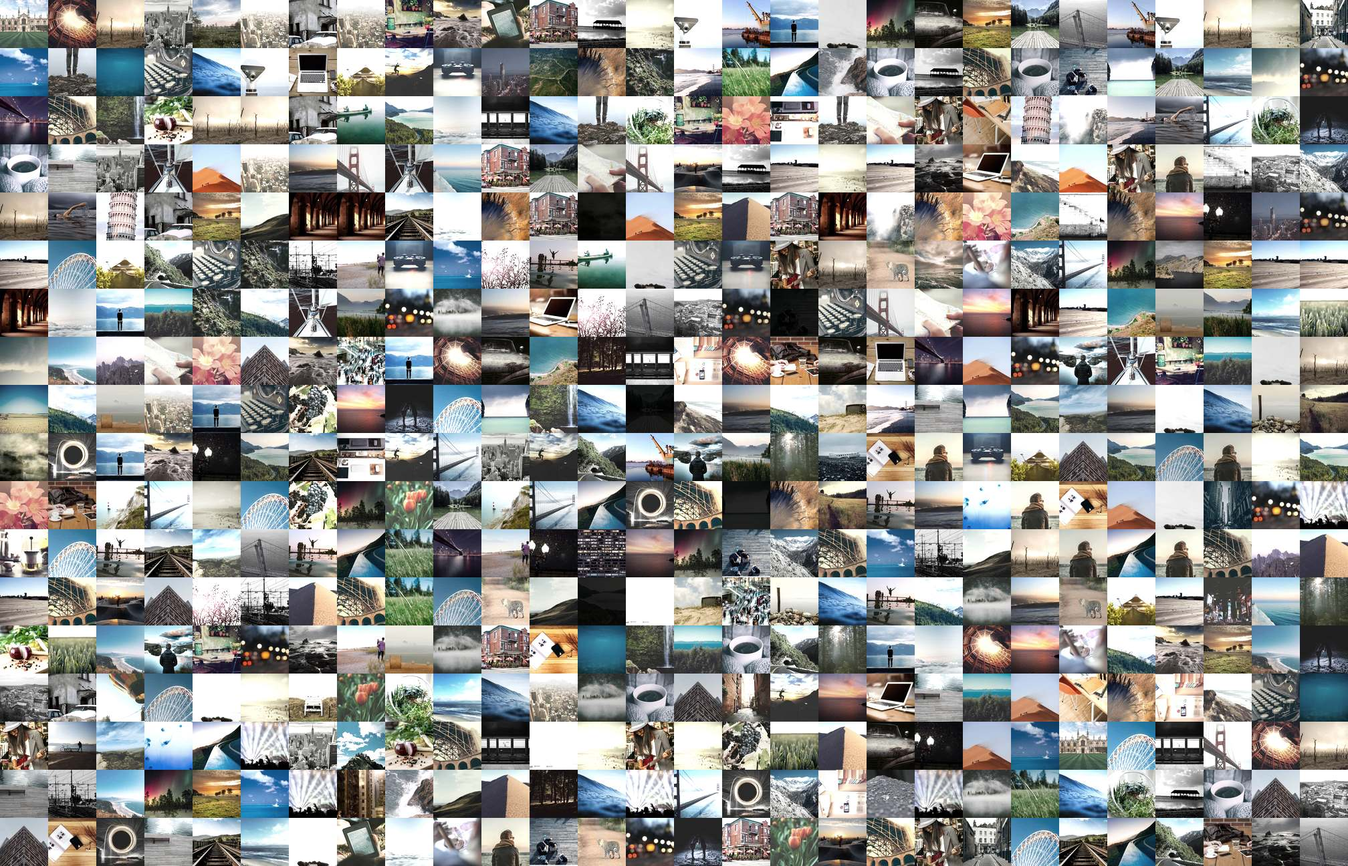
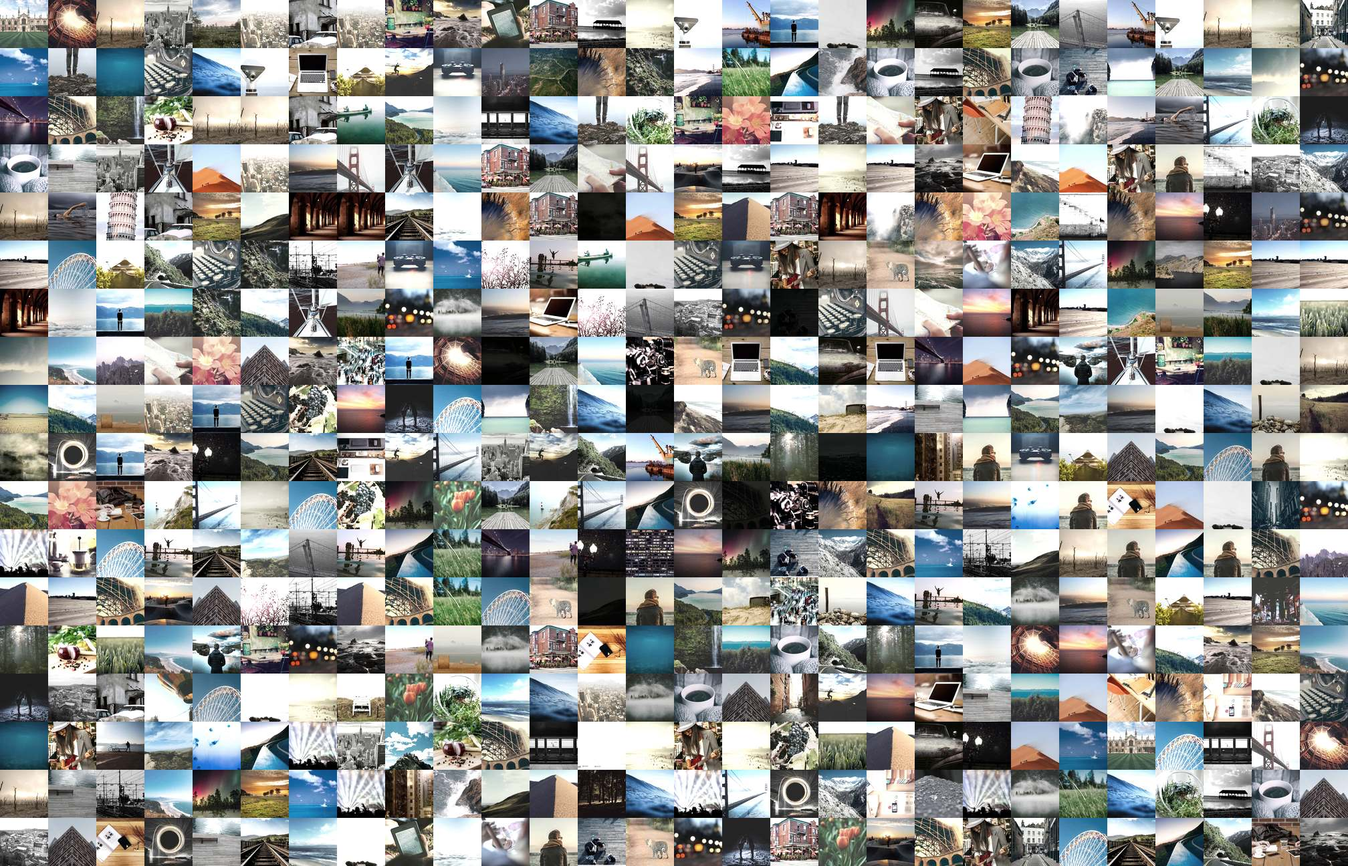
feat: all seven beats carry photographs — compositor fix, beats 6-7 heroes, 7-cell mosaic
Beat-5 "no image" root cause was compositing, not content (image luma is
fine): every photo wrapper carried a permanent translate3d transform, so
even parked wrappers at opacity 0 held viewport-sized GPU textures — on
the low-RAM acceptance phone that exhausted texture memory, blanking later
beats and leaking stale textures (beats 1/2 identical). Fix: wrappers are
visibility:hidden while parked; at most 2 large layers are ever live.

- Beat 6 (T): 1973 EPA DOCUMERICA photo, Matthew Vieira holding prints of
  his children (NARA 412-DA-5964, public domain, chain in CREDITS.md).
- Beat 7 (I): NASA Blue Marble AS17-148-22727 (public domain), distinct
  composition from beat 2's Earthrise; flight lands with the closing.
- Mosaic rebuilt with 7 darkened landing cells; HERO_CELLS kept identical
  in build_mosaic.py and index.html.
- verify_scroll.mjs: 7 photos/landings/coverage, plus a dynamic-viewport
  config (innerHeight 844 vs 780svh stages) proving the model survives
  mobile URL-bar collapse; green both directions on all configs.
- ?debug=1 HUD for on-device ground truth (wrapper↔image pairing, phases,
  innerHeight); zero cost when absent.
- Page weight ~1.12MB (ceiling 1.2MB). Reduced-motion/no-JS static story
  now shows all seven photographs.

Claude-Session: https://claude.ai/code/session_01PZ8j7TkNbTrrXCkFBL9Npz

diff --git a/index.html b/index.html
@@ -164,6 +164,8 @@
   }
   #beat-2 img.photo,
   .photo-wrap img[src*="earthrise"] { object-position: 62% 60%; } /* keep Earth + horizon framed on phones */
+  #beat-6 img.photo,
+  .photo-wrap img[src*="beat6-proof"] { object-position: 58% 50%; } /* keep both held prints inside portrait crops */
 
   /* ---------- fixed background layers (JS-created, scroll-driven) ----------
      Stacking, bottom → top: canvas (body bg) → #mosaic-layer (z:-2) →
@@ -229,16 +231,17 @@
   }
   .anim .copy { opacity: 0; will-change: transform, opacity; }
 
-  .beat--dark .stage { background: var(--bg); }
-  .beat--dark .copy {
-    margin-bottom: 0;
-    align-self: center;
-    font-size: clamp(1.7rem, 6vw, 3rem);
+  /* ---- ?debug=1 on-device readout (created by JS only when enabled) ---- */
+  #debug-hud {
+    position: fixed; left: 8px; bottom: 8px; z-index: 99;
+    font: 10px/1.5 ui-monospace, Menlo, monospace;
+    color: #7CFC9A;
+    background: rgba(0,0,0,.72);
+    padding: 6px 8px;
+    border-radius: 4px;
+    pointer-events: none;
+    white-space: pre;
   }
-  /* Under .anim the dark beats stay translucent so the accumulating mosaic
-     holds faintly behind the typography, waiting for the finale. */
-  .anim .beat--dark .stage { background: transparent; }
-  .stage .scrim--flat { background: rgba(5,5,5,.55); }
 
   /* ---------- closing ---------- */
   .closing {
@@ -387,17 +390,21 @@
     </div>
   </section>
 
-  <section class="beat beat--dark short" id="beat-6">
+  <section class="beat short" id="beat-6">
     <div class="stage">
-      <div class="scrim scrim--flat"></div>
+      <img class="photo" src="assets/beat6-proof.jpg" decoding="async"
+           alt="East Boston, 1973: Matthew Vieira holds up two small faded prints of his children, photographed decades earlier in the park where he stands — the park itself is now gone.">
+      <div class="scrim"></div>
       <span class="beat-letter" aria-hidden="true">T</span>
       <h2 class="copy">Real moments deserve proof.</h2>
     </div>
   </section>
 
-  <section class="beat beat--dark short" id="beat-7">
+  <section class="beat short" id="beat-7">
     <div class="stage">
-      <div class="scrim scrim--flat"></div>
+      <img class="photo" src="assets/beat7-bluemarble.jpg" decoding="async"
+           alt="The Blue Marble: the whole Earth — ocean, Africa, Antarctica under swirling cloud — photographed by the crew of Apollo 17 on 7 December 1972.">
+      <div class="scrim"></div>
       <span class="beat-letter" aria-hidden="true">I</span>
     </div>
   </section>
@@ -440,8 +447,8 @@
   /* ---- mosaic grid geometry — MUST match scripts/build_mosaic.py ---- */
   var MOSAIC_W = 2016, MOSAIC_H = 1296, MOSAIC_TILE = 72;
   /* (col,row) landing cell for each hero photo. build_mosaic.py bakes these
-     five cells dark so each photograph flies in and fills its empty slot. */
-  var HERO_CELLS = [[12, 4], [16, 6], [13, 8], [15, 10], [12, 12]];
+     seven cells dark so each photograph flies in and fills its empty slot. */
+  var HERO_CELLS = [[12, 4], [16, 6], [13, 8], [15, 10], [12, 12], [10, 7], [17, 9]];
 
   var LETTERS = ["R", "I", "A", "L", "I", "T", "I"];
   var beats = LETTERS.map(function (_, i) {
@@ -468,7 +475,7 @@
   var photoLayer = document.createElement("div");
   photoLayer.id = "photo-layer";
   var wraps = [], imgs = [];
-  for (var bi = 0; bi < 5; bi++) {
+  for (var bi = 0; bi < 7; bi++) {
     var photo = beats[bi].querySelector("img.photo");
     var wrap = document.createElement("div");
     wrap.className = "photo-wrap";
@@ -489,6 +496,15 @@
     document.body.appendChild(el);
     return el;
   });
+
+  /* ---- ?debug=1 — on-device ground-truth HUD (zero cost when absent) ---- */
+  var dbg = null;
+  if (/[?&]debug=1\b/.test(location.search)) {
+    dbg = document.createElement("pre");
+    dbg.id = "debug-hud";
+    dbg.setAttribute("aria-hidden", "true");
+    document.body.appendChild(dbg);
+  }
 
   /* ---- style writer that skips unchanged values ---- */
   function st(el, prop, val) {
@@ -557,18 +573,21 @@
     var cp = clamp01((m.vh - ctop) / m.vh); // closing entry progress
 
     /* mosaic layer: absent above the story, very faint during beats,
-       breathes up during each transition, holds under the dark beats,
-       full for the finale. max() of pure ramps keeps it scrub-exact. */
+       breathes up during each hand-off, full for the finale. Every beat
+       now carries a photograph, so there is no imageless "hold" — the
+       waiting opacity is the 0.06 baseline plus the transition breaths;
+       beat 7's flight coincides exactly with the closing's entry, so the
+       cp ramp carries the mosaic to full as the last photo lands.
+       max() of pure ramps keeps it scrub-exact. */
     var en0 = clamp01((m.vh - tops[0]) / m.vh);
     var Mraw = 0.06;
-    for (i = 0; i < 4; i++) Mraw = Math.max(Mraw, lerp(0.06, 0.30, Math.sin(Math.PI * e[i])));
-    Mraw = Math.max(Mraw, lerp(0.06, 0.32, smooth(e[4], 0, 1)));
+    for (i = 0; i < 6; i++) Mraw = Math.max(Mraw, lerp(0.06, 0.30, Math.sin(Math.PI * e[i])));
     var M = Mraw * smooth(en0, 0, 1); // gate: fully absent above the story
     M = Math.max(M, 0.62 * smooth(cp, 0.05, 0.8));
     var tileOp = Math.min(1, M * 2.2); // landed heroes read a touch brighter
 
     var photos = [];
-    for (i = 0; i < 5; i++) {
+    for (i = 0; i < 7; i++) {
       var cell = m.cells[i], ph;
       if (e[i] <= 0) {
         /* entering (slides up from below as a viewport card) or holding
@@ -599,8 +618,8 @@
     var scrimOp = [], copy = [], fly = [], slot = [];
     for (i = 0; i < 7; i++) {
       /* the outgoing scrim lifts as its photo departs, unveiling the
-         mosaic beneath; dark-beat scrims (5,6) hold constant via CSS */
-      scrimOp.push(i < 5 ? 1 - smooth(e[i], 0.15, 0.85) : 1);
+         mosaic beneath */
+      scrimOp.push(1 - smooth(e[i], 0.15, 0.85));
       var cin = smooth(p[i], 0.1, 0.3);
       copy.push({ op: cin * (1 - smooth(p[i], 0.72, 0.9)), ty: 24 * (1 - cin) });
       /* rail slot fades in exactly as the flown letter fades out — the two
@@ -628,9 +647,17 @@
 
   function apply(f) {
     st(mosaicLayer, "opacity", f.mosaic.toFixed(3));
+    st(mosaicLayer, "visibility", f.mosaic <= 0 ? "hidden" : "visible");
     var i;
-    for (i = 0; i < 5; i++) {
+    for (i = 0; i < 7; i++) {
       var ph = f.photos[i], w = wraps[i];
+      /* COMPOSITOR DISCIPLINE (founder's low-RAM Android is the gate):
+         a parked wrapper at opacity 0 still holds a viewport-sized GPU
+         texture once it carries a 3D transform — with 7 heroes that
+         exhausted texture memory and blanked later beats on device.
+         visibility:hidden drops the raster entirely, so only the rising
+         photo and (mid-flight) the outgoing one are ever live layers. */
+      st(w, "visibility", ph.op <= 0 ? "hidden" : "visible");
       st(w, "transform", "translate3d(" + ph.x.toFixed(2) + "px," + ph.y.toFixed(2) +
                          "px,0) scale(" + ph.sx.toFixed(4) + "," + ph.sy.toFixed(4) + ")");
       st(w, "opacity", ph.op.toFixed(3));
@@ -642,7 +669,7 @@
       }
     }
     for (i = 0; i < 7; i++) {
-      if (i < 5) st(scrims[i], "opacity", f.scrimOp[i].toFixed(3));
+      st(scrims[i], "opacity", f.scrimOp[i].toFixed(3));
       if (copies[i]) {
         st(copies[i], "opacity", f.copy[i].op.toFixed(3));
         st(copies[i], "transform", "translateY(" + f.copy[i].ty.toFixed(2) + "px)");
@@ -661,6 +688,21 @@
     }
     if (closingEls[2]) st(closingEls[2], "opacity", cl.block.toFixed(3));
     if (closingEls[3]) st(closingEls[3], "opacity", cl.footer.toFixed(3));
+
+    /* debug HUD: wrapper↔image pairing, per-photo phase, live viewport */
+    if (dbg) {
+      var s = "ih " + window.innerHeight + "  m.vh " + m.vh +
+              "  y " + Math.round(window.scrollY) +
+              "  mosaic " + f.mosaic.toFixed(2) + "\n";
+      for (i = 0; i < 7; i++) {
+        var q = f.photos[i];
+        var phase = f.e[i] >= 1 ? "landed" : f.e[i] > 0 ? "flying" :
+                    q.op <= 0 ? "parked" : f.p[i] > 0 ? "pinned" : "rising";
+        s += (i + 1) + " " + imgs[i].src.split("/").pop().split(".")[0] +
+             " op" + q.op.toFixed(2) + " " + phase + "\n";
+      }
+      if (dbg.__t !== s) { dbg.__t = s; dbg.textContent = s; }
+    }
   }
 
   function update() {

diff --git a/scripts/build_mosaic.py b/scripts/build_mosaic.py
@@ -29,11 +29,12 @@ COLS, ROWS = 28, 18  # 2016 x 1296 canvas, 504 visible tiles
 UNIQUE = 160       # distinct thumbnails to download (repetition is jittered)
 CACHE = pathlib.Path("/tmp/rialiti_mosaic_tiles")
 
-# Five designated landing cells (col, row) kept almost-black: the five beat
+# Seven designated landing cells (col, row) kept almost-black: the seven beat
 # photographs fly in and occupy them as the story scrolls. Chosen inside the
 # region that stays on screen under object-fit: cover from 360px-wide phones
-# to ultrawide monitors. MUST match HERO_CELLS in index.html.
-HERO_CELLS = {(12, 4), (16, 6), (13, 8), (15, 10), (12, 12)}
+# to ultrawide monitors (cols 10-17, rows ~4-12). MUST match HERO_CELLS in
+# index.html.
+HERO_CELLS = {(12, 4), (16, 6), (13, 8), (15, 10), (12, 12), (10, 7), (17, 9)}
 
 def fetch_tile(seed: int) -> Image.Image:
     CACHE.mkdir(exist_ok=True)

diff --git a/CLAUDE.md b/CLAUDE.md
@@ -33,10 +33,14 @@ copy (do not rewrite without founder sign-off):
 4. **L** — worn family portrait (LOC, 1936) — "Some are all that's left of someone."
 5. **I** — THE TURN, a real photo deliberately distorted — "And soon — some
    will never have happened at all."
-6. **T** — "Real moments deserve proof."
-7. **I** — name completes → mission line "To Protect What's Human" directly
-   below the lockup → faded photo mosaic beneath → "Keep what's real, real."
-   → signup.
+6. **T** — hands holding old printed photos (1973 DOCUMERICA, Matthew
+   Vieira) — "Real moments deserve proof."
+7. **I** — the Blue Marble (NASA AS17-148-22727), name completes → mission
+   line "To Protect What's Human" directly below the lockup → faded photo
+   mosaic beneath → "Keep what's real, real." → signup.
+
+ALL SEVEN beats carry a photograph and all seven join the mosaic (founder
+overruled the earlier typographic-only beats 6-7, 2026-08-03).
 
 Mechanism notes: letter flight is a rAF loop interpolating fixed-position
 letter clones toward measured rail-slot rects (no GSAP, no libraries).
@@ -47,14 +51,28 @@ Transition system ("join the mosaic", 2026-08-03): a fixed, very-faint
 mosaic layer sits behind the whole story; when a beat completes, its photo
 shrinks and flies into a designated darkened mosaic cell (becoming a small
 tile) while the next photo slides up from below; the mosaic accumulates all
-five heroes and brightens to full at the closing. HARD RULE — scrub
+seven heroes and brightens to full at the closing (beat 7's flight
+coincides exactly with the closing's entry). HARD RULE — scrub
 symmetry: every animated value on the page is a pure function of scroll
 position, computed in the `PURE SCROLL MODEL` block of `index.html`. No
 one-shot triggers, no observers, no latched state. That block is extracted
 and executed headlessly by `node scripts/verify_scroll.mjs`, which walks
 the full document in both directions and asserts photo visibility,
-exact tile landings, and reversibility — run it after ANY animation change
-and keep its markers intact.
+exact tile landings, and reversibility — including a dynamic-viewport
+configuration (mobile URL-bar collapse: innerHeight > 100svh stages) —
+run it after ANY animation change and keep its markers intact.
+
+COMPOSITOR RULE (the founder's low-RAM Android is the acceptance device,
+and it has failed twice): a wrapper carrying a translate3d transform holds
+a viewport-sized GPU texture even at opacity 0. Every `.photo-wrap` must be
+`visibility: hidden` while parked (`apply()` does this from `ph.op`); at
+most the rising photo plus the outgoing in-flight one may be live layers,
+and `will-change` (`.live`) is toggled only while actually moving. After
+any animation change, ask the founder to re-test on the phone.
+
+Debug: append `?debug=1` for a fixed on-page HUD (innerHeight, scrollY,
+mosaic opacity, and each wrapper's image + opacity + phase). Zero cost when
+the param is absent. Ask the founder to screenshot it for device reports.
 
 ## Copy stance — mechanism-free, poetic (founder decision, 2026-08-03)
 
@@ -83,11 +101,13 @@ team photos, press mentions — none exist. Honesty is a product value.
 - The mosaic is ONE pre-baked JPEG (no thousands of DOM nodes/requests),
   regenerated with: `python3 scripts/build_mosaic.py assets/mosaic.jpg`
   (needs Pillow — e.g. /Users/ashishnair/claude_ws/reality/.venv/bin/python —
-  and network; tiles cached in /tmp/rialiti_mosaic_tiles). It bakes five
+  and network; tiles cached in /tmp/rialiti_mosaic_tiles). It bakes seven
   darkened landing cells for the hero photos: `HERO_CELLS` in
-  build_mosaic.py and in index.html MUST stay identical.
-- Keep heroes ≤ ~250KB (≤1600px wide, JPEG q~75); total first-load ≤ ~2.5MB;
-  below-the-fold images lazy-loaded.
+  build_mosaic.py and in index.html MUST stay identical (safe cell region
+  under object-fit: cover from 360px phones to 32:9 monitors: cols 10-17,
+  rows ~4-12).
+- Keep heroes ≤ ~150KB (≤1600px wide, JPEG q~62-75); total first-load
+  ≤ ~1.2MB (currently ~1.12MB with 7 heroes + mosaic).
 
 ## Signup
 

diff --git a/CREDITS.md b/CREDITS.md
@@ -59,12 +59,41 @@ All images are self-hosted in `assets/`; nothing is hotlinked at runtime.
   `scripts/make_turn_image.py`. The page's alt text discloses the alteration.
 - **License of the derivative:** CC BY 2.0, credit FDWR (same as source).
 
+### 6. `beat6-proof.jpg` — "T · Real moments deserve proof."
+- **Title/Author:** *Matthew Vieira stands in the very place where, some
+  thirty-five years ago, he took these pictures of his children. At that time
+  the area was Wood Island Park… since then the site has become part of Logan
+  Airport* — East Boston, June 1973, by **Michael Philip Manheim** for the
+  U.S. EPA's **DOCUMERICA** project. National Archives (NARA) local ID
+  412-DA-5964, naId 548451.
+- **License:** Public domain (U.S. federal government work; NARA lists use
+  and access as "Unrestricted").
+- **Source (NARA catalog page):** https://catalog.archives.gov/id/548451
+- **License verified at:** NARA catalog API record for naId 548451
+  (`useRestriction: Unrestricted`), and the license-reviewed Commons mirror
+  https://commons.wikimedia.org/wiki/File:MATTHEW_VIEIRA_STANDS_IN_THE_VERY_PLACE_WHERE,_SOME_THIRTY-FIVE_YEARS_AGO,_HE_TOOK_THESE_PICTURES_OF_HIS_CHILDREN._AT..._-_NARA_-_548451.jpg
+  (verified 2026-08-03)
+- **File downloaded:** https://upload.wikimedia.org/wikipedia/commons/5/55/MATTHEW_VIEIRA_STANDS_IN_THE_VERY_PLACE_WHERE%2C_SOME_THIRTY-FIVE_YEARS_AGO%2C_HE_TOOK_THESE_PICTURES_OF_HIS_CHILDREN._AT..._-_NARA_-_548451.jpg (3000×2027 original)
+- **Modifications:** resized to 1600px, re-encoded (JPEG q70).
+
+### 7. `beat7-bluemarble.jpg` — "I · the name completes"
+- **Title/Author:** *The Blue Marble*, photograph **AS17-148-22727**, taken by
+  the crew of Apollo 17 traveling toward the Moon, 7 December 1972. Courtesy
+  **NASA**. (A different photograph and composition from image 2's
+  *Earthrise*: the full sunlit Earth, no lunar horizon.)
+- **License:** Public domain (NASA imagery; not copyrighted).
+- **Source (NASA original):** https://images.nasa.gov/details/as17-148-22727
+- **File downloaded:** https://images-assets.nasa.gov/image/as17-148-22727/as17-148-22727~large.jpg
+- **Modifications:** resized to 1400px, re-encoded (JPEG q62).
+
 ## Mosaic
 
-### 6. `mosaic.jpg` — closing section background
+### 8. `mosaic.jpg` — closing section background
 - **What it is:** a single pre-baked composite of **160 unique real-photograph
   thumbnails** tiled into a 28×18 grid (504 cells; tiles repeat with random
-  brightness/saturation jitter), built by `scripts/build_mosaic.py`.
+  brightness/saturation jitter), built by `scripts/build_mosaic.py`. Seven
+  cells are baked near-black — the seven hero photographs above fly in and
+  occupy them as the story scrolls.
 - **Source:** https://picsum.photos (Lorem Picsum free image service).
 - **Modifications:** gently desaturated and composited (dimming happens in
   CSS); served as one JPEG so the page never makes hundreds of image requests.
